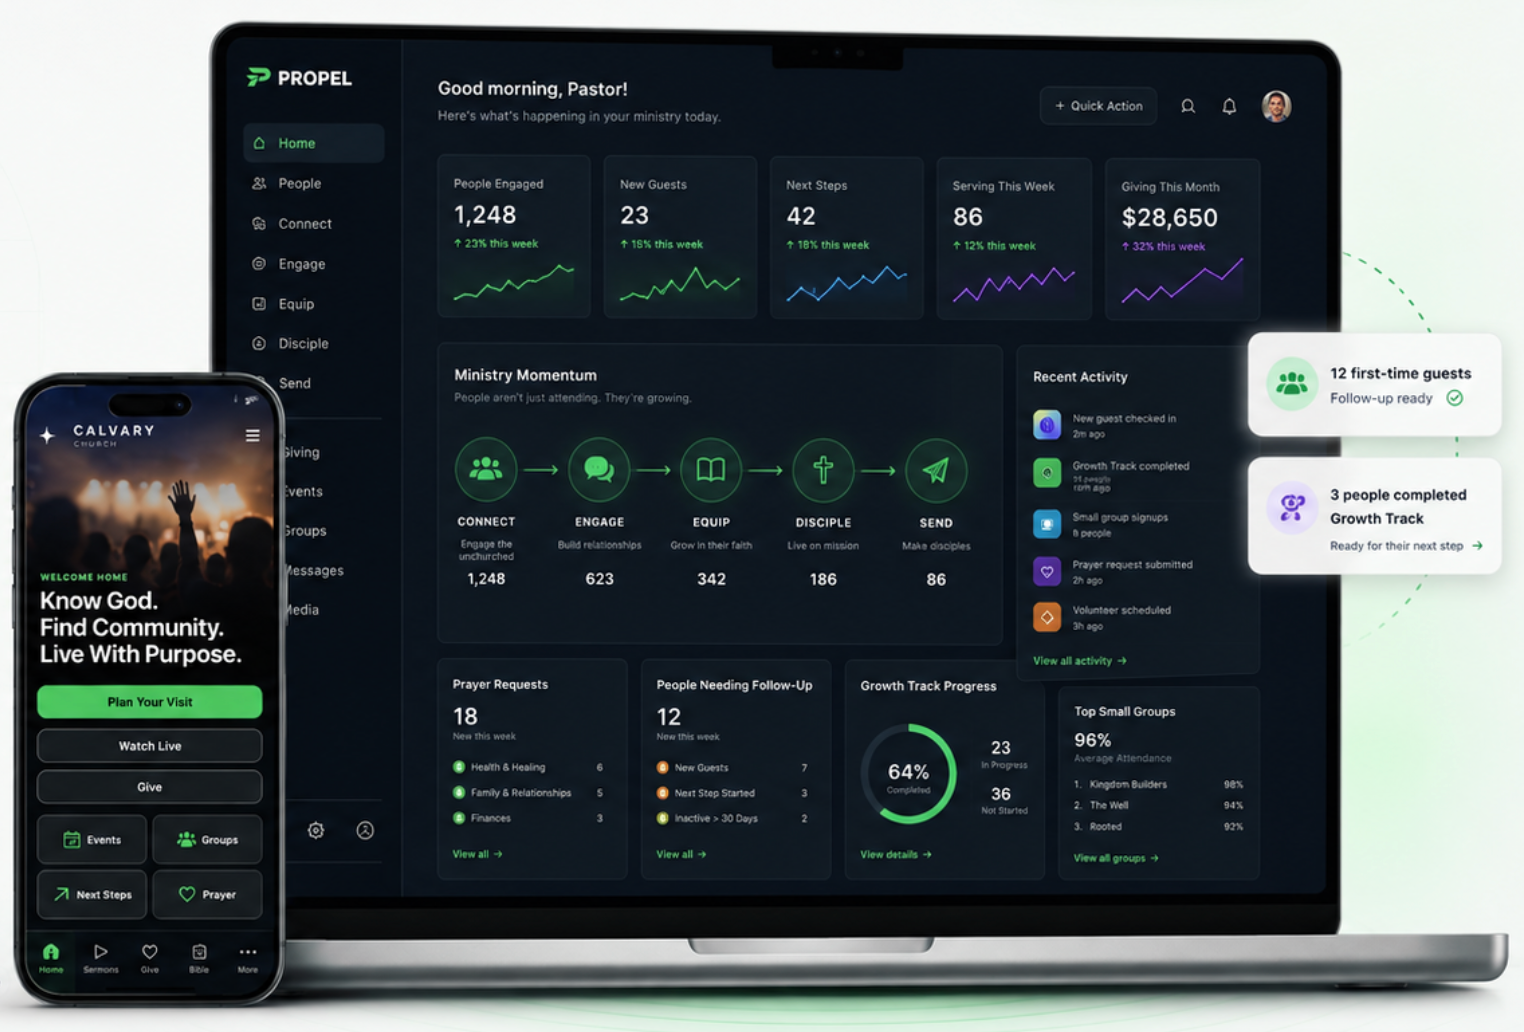
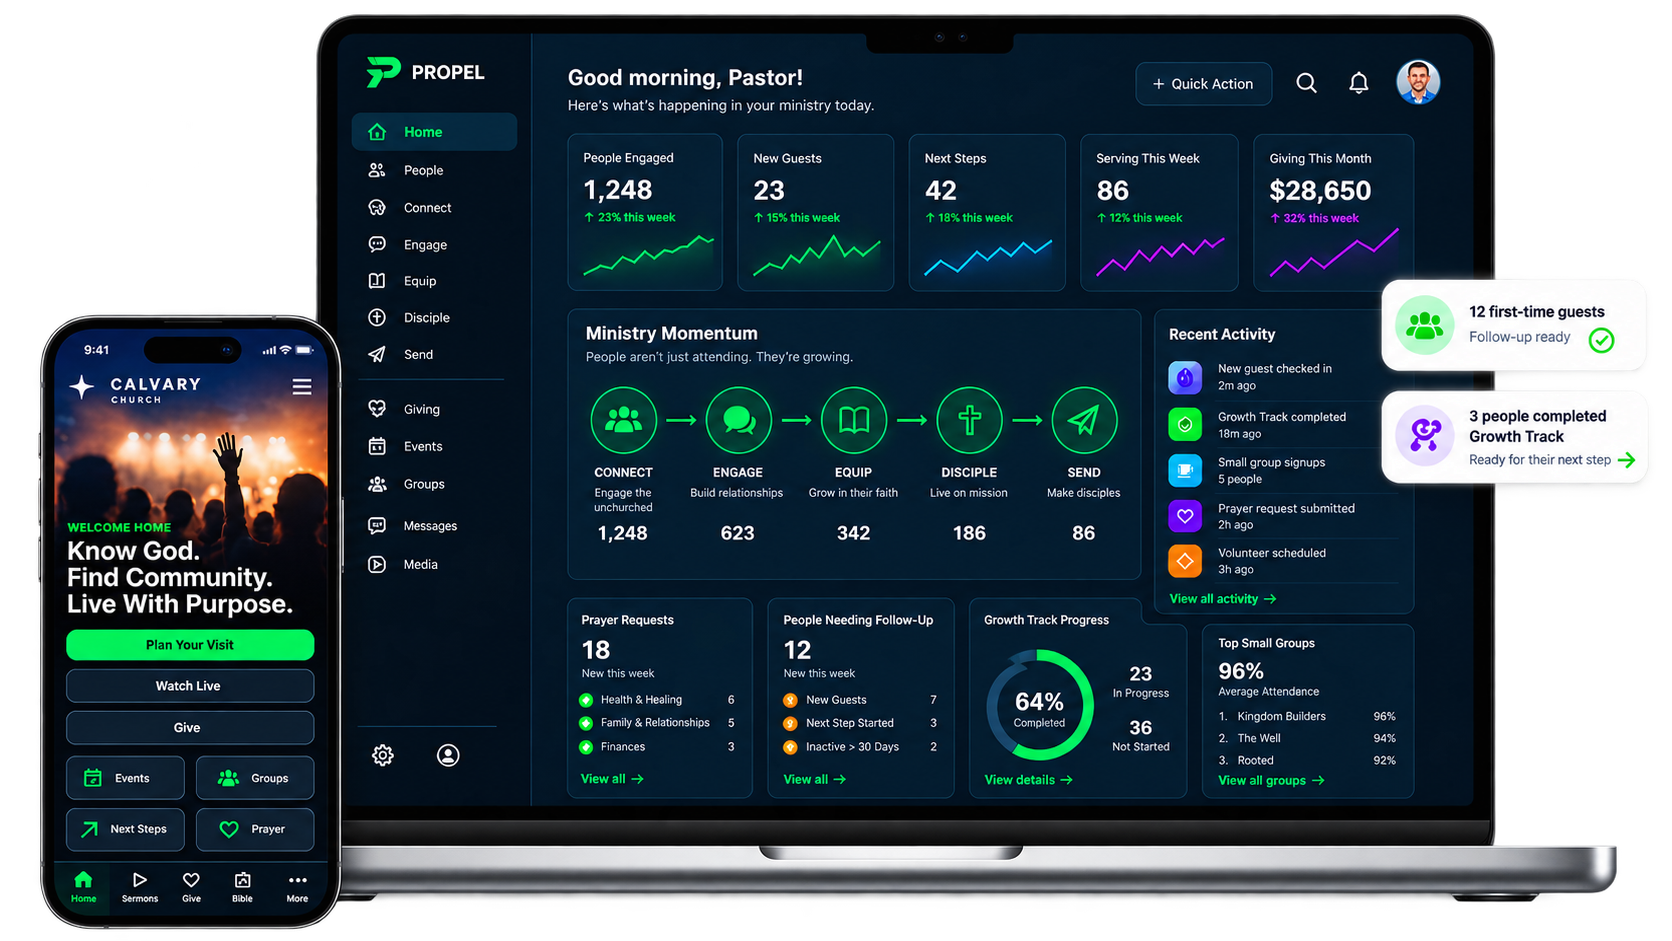
Add files via upload

diff --git a/index.html b/index.html
@@ -147,9 +147,9 @@
   <div class="container">
     <div class="section-head center"><span class="tag">One connected ministry experience</span><h2>Your ministry is connected. Your technology should be too.</h2><p>Propel brings the digital tools churches use every week into a unified experience designed around people—not software.</p></div>
     <div class="experience-grid">
-      <a class="experience-card app-card" href="/church-apps/"><span class="mini-label">Propel Apps</span><div class="experience-art phone-art"><span>YOUR CHURCH</span><b>In their hands.<br>All week long.</b></div><h3>Your Branded Church App</h3><p>Content, giving, events, prayer, media, notifications and next steps in a mobile experience that feels like your church.</p><span class="text-link">Explore Church Apps →</span></a>
-      <a class="experience-card web-card" href="/church-websites/"><span class="mini-label">Propel Websites</span><div class="experience-art web-art"><span>WELCOME HOME</span><b>A digital front door<br>built to move people.</b></div><h3>Your Modern Church Website</h3><p>Turn first impressions into meaningful next steps with a fast, modern website designed around ministry outcomes.</p><span class="text-link">Explore Church Websites →</span></a>
-      <div class="experience-card hub-card"><span class="mini-label">Propel Ministry Hub</span><div class="experience-art hub-art"><span>THIS WEEK</span><b>See what matters.<br>Act on what’s next.</b></div><h3>Your Connected Ministry Hub</h3><p>Bring communication, content, engagement and ministry activity into a cleaner leadership experience.</p><span class="text-link">One platform. One experience.</span></div>
+      <a class="experience-card app-card" href="/church-apps/"><span class="mini-label">Propel Apps</span><div class="experience-media"><img src="/assets/propel-card-app-approved.png" alt="Premium Calvary Church branded mobile app experience with worship imagery, action buttons, ministry tools and bottom navigation"></div><h3>Your Branded Church App</h3><p>Content, giving, events, prayer, media, notifications and next steps in a mobile experience that feels like your church.</p><span class="text-link">Explore Church Apps →</span></a>
+      <a class="experience-card web-card" href="/church-websites/"><span class="mini-label">Propel Websites</span><div class="experience-media"><img src="/assets/propel-card-web-approved.png" alt="Premium Calvary Church website shown on a laptop with welcome messaging, plan your visit and next-step pathways"></div><h3>Your Modern Church Website</h3><p>Turn first impressions into meaningful next steps with a fast, modern website designed around ministry outcomes.</p><span class="text-link">Explore Church Websites →</span></a>
+      <div class="experience-card hub-card"><span class="mini-label">Propel Ministry Hub</span><div class="experience-media"><img src="/assets/propel-card-hub-approved.png" alt="Propel connected ministry leadership dashboard with engagement, next steps, serving, giving and ministry momentum"></div><h3>Your Connected Ministry Hub</h3><p>Bring communication, content, engagement and ministry activity into a cleaner leadership experience.</p><span class="text-link">One platform. One experience.</span></div>
     </div>
   </div>
 </section>
@@ -185,8 +185,16 @@
 
 <section class="section-light" id="story">
   <div class="container pastor">
-    <div class="pastor-panel"><div class="seal">MINISTRY<br>FIRST</div><blockquote>“What if technology didn’t just help us run the church—but helped us equip the Church?”</blockquote><p>The question behind Propel.</p></div>
-    <div><span class="tag">Built from the heart of ministry</span><h2 style="font-size:clamp(38px,4.7vw,62px);line-height:1.03;letter-spacing:-.045em;margin:14px 0 22px">Designed by people who understand what ministry actually feels like.</h2><p style="font-size:18px;color:#526272">Propel grew from firsthand ministry leadership experience and input from leaders serving across different areas, generations and church environments.</p><p style="font-size:18px;color:#526272">That perspective changes what gets built. We’re not asking, “What features can we sell a church?” We’re asking, “What would genuinely help ministry leaders accomplish the vision God has placed in their hearts?”</p><p style="font-size:18px;color:#526272"><strong>That is the lens behind every Propel feature—today and tomorrow.</strong></p></div>
+    <div class="ministry-visual" aria-label="Ministry-first Propel visual showing real ministry activity and actionable next steps">
+      <img class="ministry-photo" src="/assets/calvary-mobile-hero.jpg" alt="Worship gathering representing real ministry life">
+      <div class="ministry-photo-shade"></div>
+      <div class="ministry-first-badge">MINISTRY FIRST</div>
+      <div class="ministry-visual-copy"><span>REAL MINISTRY. REAL PEOPLE. REAL NEXT STEPS.</span><strong>Technology built around how ministry actually happens.</strong><div class="ministry-mini-path">CONNECT <i>→</i> ENGAGE <i>→</i> EQUIP <i>→</i> DISCIPLE <i>→</i> SEND</div></div>
+      <div class="ministry-float float-one"><b>12 First-Time Guests</b><span>Follow-up ready</span></div>
+      <div class="ministry-float float-two"><b>3 Completed Growth Track</b><span>Ready for their next step</span></div>
+      <div class="ministry-float float-three"><b>86 Serving This Weekend</b><span>Teams prepared</span></div>
+    </div>
+    <div><span class="tag">Built from the heart of ministry</span><h2 style="font-size:clamp(38px,4.7vw,62px);line-height:1.03;letter-spacing:-.045em;margin:14px 0 22px">Designed by people who understand what ministry actually feels like.</h2><p style="font-size:18px;color:#526272">Propel is being built from firsthand ministry leadership experience, shaped by the real needs and input of leaders serving across different areas, generations and church environments.</p><p style="font-size:18px;color:#526272">That perspective changes what gets built. We’re not asking, “What features can we sell a church?” We’re asking, “What would genuinely help ministry leaders accomplish the vision God has placed in their hearts?”</p><p style="font-size:18px;color:#526272"><strong>That is the lens behind every Propel feature—today and tomorrow.</strong></p></div>
   </div>
 </section>
 

diff --git a/styles.css b/styles.css
@@ -393,3 +393,17 @@ header .brand img{width:205px;max-height:52px;object-fit:contain;object-position
 .step .n{display:block}
 .manifesto-copy strong{color:#e6edf4}
 @media(max-width:980px){.pathway-label{text-align:left;margin-top:28px;margin-bottom:-12px}.journey:before{display:none}.step-icon{width:44px;height:44px}}
+
+/* V8 approved production asset corrections */
+.hero-approved-visual img{width:min(100%,970px);aspect-ratio:1672/941;object-fit:contain;transform:none;filter:drop-shadow(0 28px 48px rgba(15,23,42,.16))}
+.experience-media{height:292px;margin:10px 0 22px;border-radius:20px;overflow:hidden;background:linear-gradient(145deg,#071521,#0b251c);display:grid;place-items:center;box-shadow:inset 0 0 0 1px rgba(16,66,43,.08)}
+.experience-media img{width:100%;height:100%;display:block;object-fit:cover;object-position:center;transition:transform .35s ease}
+.experience-card:hover .experience-media img{transform:scale(1.018)}
+.ministry-visual{position:relative;min-height:470px;border-radius:32px;overflow:hidden;background:#06111b;border:1px solid rgba(34,197,94,.18);box-shadow:0 30px 70px rgba(15,23,42,.18)}
+.ministry-photo{position:absolute;inset:0;width:100%;height:100%;object-fit:cover;object-position:center;filter:saturate(.9) contrast(1.05)}
+.ministry-photo-shade{position:absolute;inset:0;background:linear-gradient(90deg,rgba(2,10,18,.93) 0%,rgba(2,10,18,.78) 42%,rgba(2,10,18,.48) 72%,rgba(2,10,18,.62) 100%),linear-gradient(0deg,rgba(2,10,18,.88),transparent 55%)}
+.ministry-first-badge{position:absolute;left:28px;top:28px;padding:10px 15px;border-radius:999px;border:1px solid rgba(34,197,94,.46);background:rgba(5,42,27,.72);backdrop-filter:blur(8px);color:#8ef0ab;font-size:12px;font-weight:900;letter-spacing:.11em}
+.ministry-visual-copy{position:absolute;left:30px;bottom:30px;max-width:70%;color:#fff;z-index:2}.ministry-visual-copy>span{display:block;color:#7ee99c;font-size:11px;font-weight:900;letter-spacing:.12em;margin-bottom:10px}.ministry-visual-copy>strong{display:block;font-size:30px;line-height:1.08;letter-spacing:-.035em;max-width:470px}.ministry-mini-path{margin-top:20px;color:#d8e4ea;font-size:11px;font-weight:850;letter-spacing:.08em;white-space:nowrap}.ministry-mini-path i{font-style:normal;color:#2bd965;margin:0 5px}
+.ministry-float{position:absolute;right:22px;z-index:3;width:210px;padding:14px 16px;border-radius:16px;background:rgba(255,255,255,.96);box-shadow:0 18px 42px rgba(0,0,0,.22);color:#0b1320;border:1px solid rgba(255,255,255,.72)}.ministry-float:before{content:'✓';position:absolute;right:14px;top:14px;width:22px;height:22px;border-radius:50%;display:grid;place-items:center;background:#dcfce7;color:#16a34a;font-size:12px;font-weight:900}.ministry-float b{display:block;font-size:13px;padding-right:24px}.ministry-float span{display:block;margin-top:4px;color:#64748b;font-size:11px}.float-one{top:84px}.float-two{top:176px}.float-three{top:268px}
+@media(max-width:980px){.experience-media{height:330px}.ministry-visual{min-height:430px}.ministry-visual-copy{max-width:60%}}
+@media(max-width:640px){.experience-media{height:245px}.ministry-visual{min-height:500px}.ministry-visual-copy{left:22px;right:22px;bottom:24px;max-width:none}.ministry-visual-copy>strong{font-size:25px}.ministry-mini-path{white-space:normal;line-height:1.8}.ministry-float{right:14px;width:185px;padding:11px 12px}.float-one{top:80px}.float-two{top:160px}.float-three{top:240px}}
